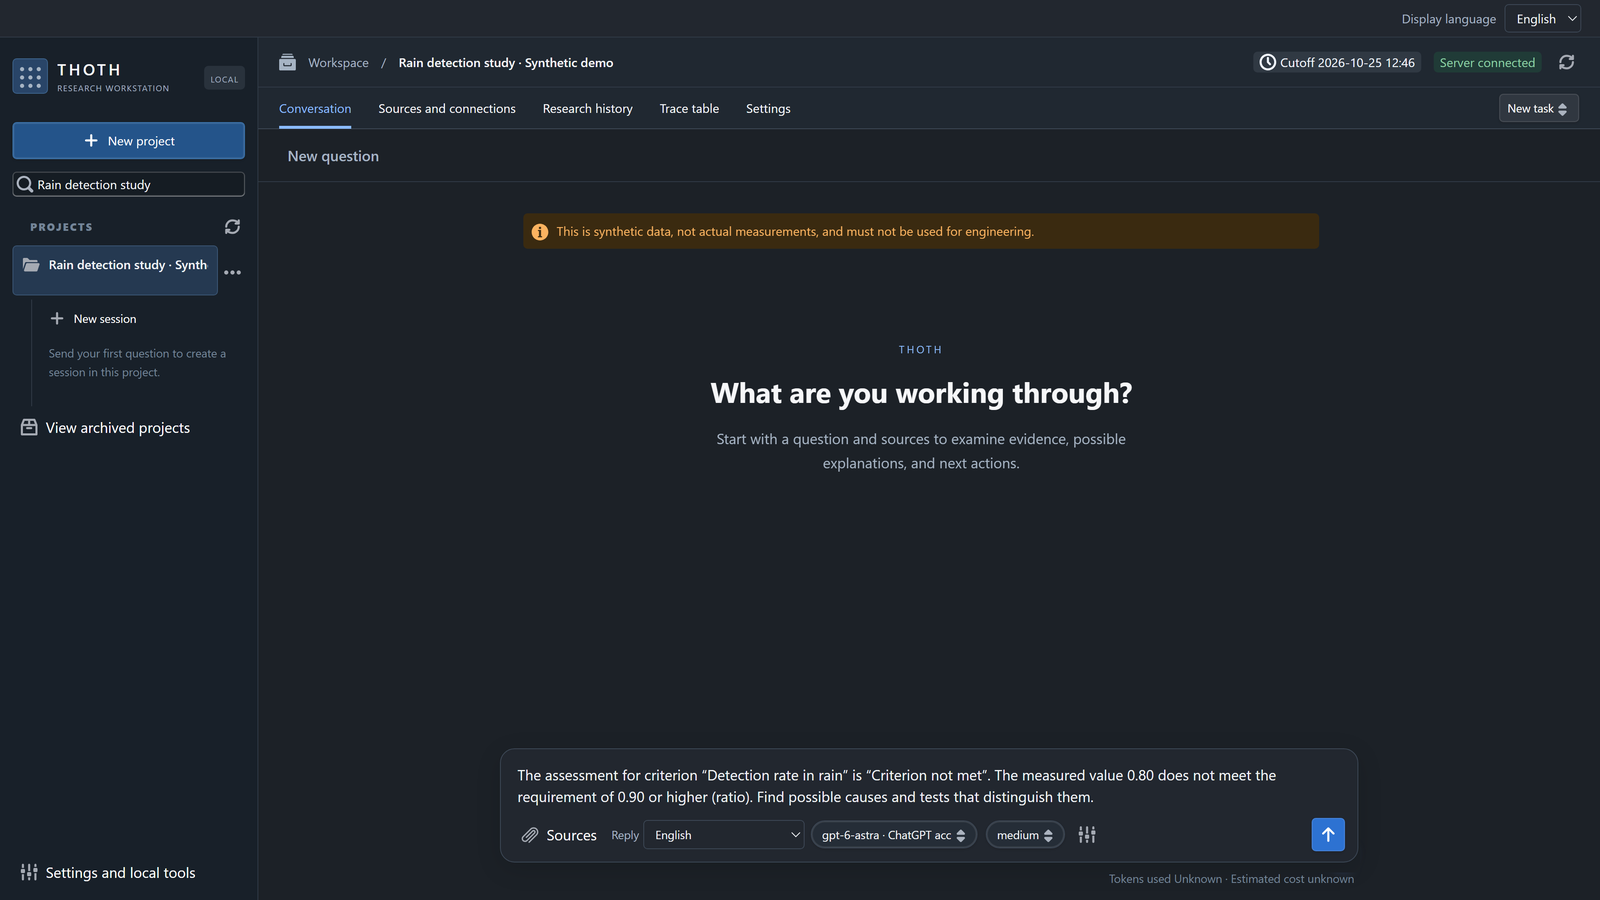
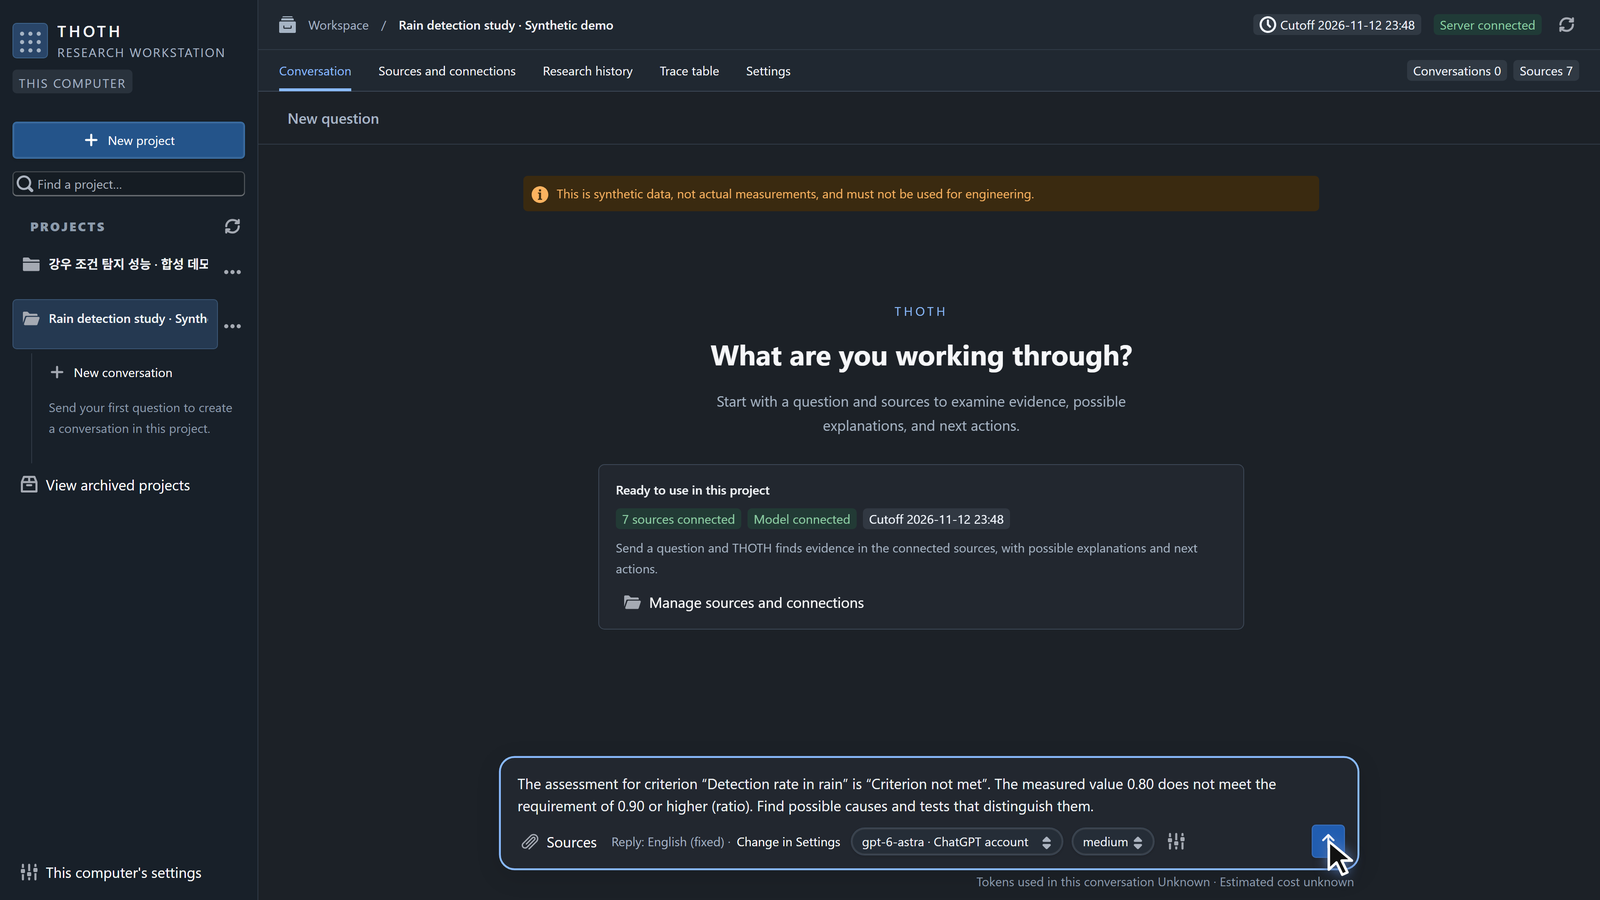
Show the v0.2.0-beta.4 screens in the README
Replaces the Korean and English README captures with a 2026-11-12/13 run on v0.2.0-beta.4, updates the alt text and two step descriptions to the current progress and answer views, notes that the Japanese and Chinese screens are unreviewed machine translation, and removes six unused captures from 2026-10-17.

diff --git a/README.ko.md b/README.ko.md
@@ -36,7 +36,7 @@
 판단을 뒷받침하는 근거와 아직 풀리지 않은 문제를 살펴보고, 저장된 두 결과를 비교하며 다음 행동을 정합니다.
 
 > [!NOTE]
-> **개인·로컬 사용을 위한 실험적 소스 공개본입니다.** 화면은 한국어·영어를 지원합니다.
+> **개인·로컬 사용을 위한 실험적 소스 공개본입니다.** 화면은 한국어·영어를 지원합니다. 일본어·중국어(간체·번체) 화면도 고를 수 있지만 검수하지 않은 기계 번역입니다.
 > GitHub Actions에서 Python 시험, 웹 시험·빌드, 검토된 기준선을 사용하는 Python 타입 검사를 실행합니다.
 > 합성 데모에서 실제 모델 조사를 끝까지 실행한 기록이 있습니다. 답의 품질이나 실제 자료에서의 유용성을 입증한 것은 아닙니다.
 > 영어 질문·답변·근거 원문을 담은 화면이 있습니다. 전반적인 영어 답 품질, 실계정 연결, 실제 PC 재시작 검증은 일부가 남아 있습니다.
@@ -45,23 +45,23 @@
 ## 실제 화면
 
 함께 들어 있는 [합성 레이더 데모](examples/synthetic-radar-demo-v1)에 한국어 합성 완료 실험 자료를
-추가해 2026-10-25 조사한 화면입니다. 자료는 지어낸 기록이며 실제 측정값이나 장비 성능의 증거가 아닙니다.
+추가해 2026-11-12에 v0.2.0-beta.4로 조사한 화면입니다. 자료는 지어낸 기록이며 실제 측정값이나 장비 성능의 증거가 아닙니다.
 
 <table>
   <tr>
     <td width="50%"><img src="docs/screenshots/ko/01-trace-verdict.png" alt="강우 조건 탐지율 0.80이 기준 0.90 이상에 못 미친 것으로 표시된 추적표"></td>
-    <td width="50%"><img src="docs/screenshots/ko/02-question.png" alt="미달 줄에서 한국어 조사 질문을 채우고 답변 언어를 한국어로 선택한 입력창"></td>
+    <td width="50%"><img src="docs/screenshots/ko/02-question.png" alt="미달 줄에서 채운 한국어 조사 질문이 들어 있는 입력창. 그 아래에 답변이 한국어로 고정돼 있다고 표시됩니다"></td>
   </tr>
   <tr>
     <td><b>1 · 결과가 기준에 못 미칩니다.</b> 판정은 규칙으로 계산합니다. 0.80은 0.90 이상이라는 기준에 못 미칩니다.</td>
-    <td><b>2 · 그 줄에서 원인을 묻습니다.</b> “원인 조사”를 누르면 결과와 기준이 담긴 질문이 채워집니다. 보내기를 눌러야 조사가 시작됩니다.</td>
+    <td><b>2 · 그 줄에서 원인을 묻습니다.</b> “원인 조사”를 누르면 결과와 기준이 담긴 질문이 채워집니다. 보내야 조사가 시작됩니다.</td>
   </tr>
   <tr>
-    <td><img src="docs/screenshots/ko/03-progress.png" alt="가설 세 개를 원문과 대조하는 진행 화면"></td>
-    <td><img src="docs/screenshots/ko/04-answer.png" alt="원래 기준 미달 판정을 유지하며 원인 후보와 그것을 가를 시험을 제안하는 한국어 부분 답변"></td>
+    <td><img src="docs/screenshots/ko/03-progress.png" alt="지금 원문과 대조하는 원인 후보 세 개, 그 이유, 확인한 과정, 근거 범위, 판단 상태를 보여 주는 진행 화면"></td>
+    <td><img src="docs/screenshots/ko/04-answer.png" alt="'판단 보류'로 표시된 한국어 부분 답변. 원래 기준 미달 판정을 유지하며 원인 후보와 그것을 가를 시험을 제안합니다"></td>
   </tr>
   <tr>
-    <td><b>3 · 원문 검토 과정을 봅니다.</b> 진행 화면에서 자료와 대조 중인 원인 후보 세 개를 확인합니다.</td>
+    <td><b>3 · 원문 검토 과정을 봅니다.</b> 진행 화면은 지금 자료와 대조하는 원인 후보, 그 이유, 확인한 과정과 근거 범위를 보여 줍니다.</td>
     <td><b>4 · 미해결 판단을 드러냅니다.</b> 부분 답변은 원래 판정을 유지하고, 가능한 원인과 제안한 시험을 나눠 보여 줍니다.</td>
   </tr>
   <tr><td colspan="2"><img src="docs/screenshots/ko/05-hypotheses.png" alt="자료에서 추론한 예상과 가설에 따른 예상을 각각 AI 제안으로 표시한 가설 비교"></td></tr>

diff --git a/README.md b/README.md
@@ -37,7 +37,7 @@ competing explanations and recorded results connected.** Inspect what supports a
 see what remains unresolved, and compare two saved results before deciding what comes next.
 
 > [!NOTE]
-> **Experimental source preview for personal/local use.** The interface supports Korean and English.
+> **Experimental source preview for personal/local use.** The interface supports Korean and English. Japanese and Chinese (Simplified, Traditional) screens can be chosen too; they are machine-translated and unreviewed.
 > GitHub Actions checks the Python suite, Web tests/build and a reviewed Python type-error baseline.
 > Recorded synthetic-demo investigations have completed with a real model; this does not establish research quality or usefulness on real data.
 > English question, answer and source-text captures are available; broader English quality, real-account coverage and physical PC restart coverage remain incomplete.
@@ -47,7 +47,7 @@ see what remains unresolved, and compare two saved results before deciding what 
 
 ## See it work
 
-English captures from a 2026-10-25 investigation on the bundled
+English captures from a 2026-11-13 investigation with v0.2.0-beta.4 on the bundled
 [synthetic radar demo](examples/synthetic-radar-demo-v1), with an English synthetic completed-experiment
 source added. The question, answer and cited source text shown here are in English. These are invented
 records, not real measurements or evidence of engineering performance.
@@ -55,18 +55,18 @@ records, not real measurements or evidence of engineering performance.
 <table>
   <tr>
     <td width="50%"><img src="docs/screenshots/en/01-trace-verdict.png" alt="Trace table showing rain detection of 0.80 below the criterion of at least 0.90."></td>
-    <td width="50%"><img src="docs/screenshots/en/02-question.png" alt="An English investigation question filled from the failed rain-detection row, with English selected for the response."></td>
+    <td width="50%"><img src="docs/screenshots/en/02-question.png" alt="The question box holding the English investigation question filled from the failed rain-detection row; under it, the reply is shown as fixed to English."></td>
   </tr>
   <tr>
     <td><b>1 · A result misses its criterion.</b> Rules compute the assessment: 0.80 does not meet a requirement of 0.90 or higher.</td>
     <td><b>2 · Ask why, from that row.</b> “Investigate causes” fills in a question with the result and criterion. Sending it starts the investigation.</td>
   </tr>
   <tr>
-    <td><img src="docs/screenshots/en/03-progress.png" alt="Progress while three proposed hypotheses are compared with the original sources."></td>
-    <td><img src="docs/screenshots/en/04-answer.png" alt="A partial English answer retains the failed criterion and proposes causes and tests that could distinguish them."></td>
+    <td><img src="docs/screenshots/en/03-progress.png" alt="Progress view naming the three candidate explanations being compared with the original sources, with the reason, the checks performed, the evidence scope and the assessment state."></td>
+    <td><img src="docs/screenshots/en/04-answer.png" alt="A partial English answer marked 'Assessment on hold' retains the failed criterion and proposes causes and tests that could distinguish them."></td>
   </tr>
   <tr>
-    <td><b>3 · Watch the source review.</b> The progress view names the three candidate explanations being compared with the source documents.</td>
+    <td><b>3 · Watch the source review.</b> The progress view names the candidate explanations being compared with the source documents, and says why, what was checked and how much evidence is in scope.</td>
     <td><b>4 · Keep the unresolved judgment visible.</b> The partial answer retains the original assessment and separates possible causes from proposed tests.</td>
   </tr>
   <tr><td colspan="2"><img src="docs/screenshots/en/05-hypotheses.png" alt="Hypothesis comparison showing an inference from data and hypothesis-only predictions, each marked as an AI proposal."></td></tr>

diff --git a/docs/releases/v0.2.0-beta.4.md b/docs/releases/v0.2.0-beta.4.md
@@ -15,7 +15,7 @@ This release gathers the fixes from a full audit of [v0.2.0-beta.3](https://gith
 
 **Sources and settings**
 
-- The Sources tab lists connected sources first. Choosing a file connects it right away; files that cannot be uploaded are explained before sending (#75).
+- The Sources tab lists connected sources first. The usage scope is already set to "Shared within this project", so choosing files and pressing **Connect** is all it takes; files that cannot be uploaded are explained before sending (#75).
 - Project settings and computer settings are two separate screens. With no model connected, settings show one sentence and a link (#75).
 - The help for source scope now says plainly that there is no screen yet for granting a single task permission: whichever scope you choose, research in the project can read the source (#78).
 
